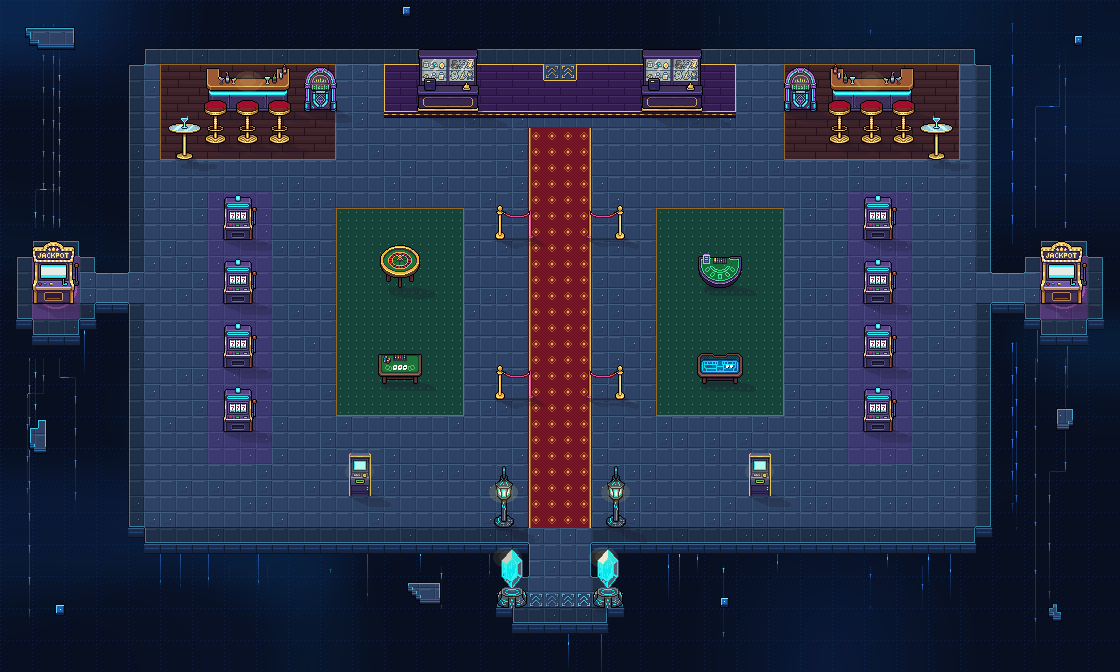
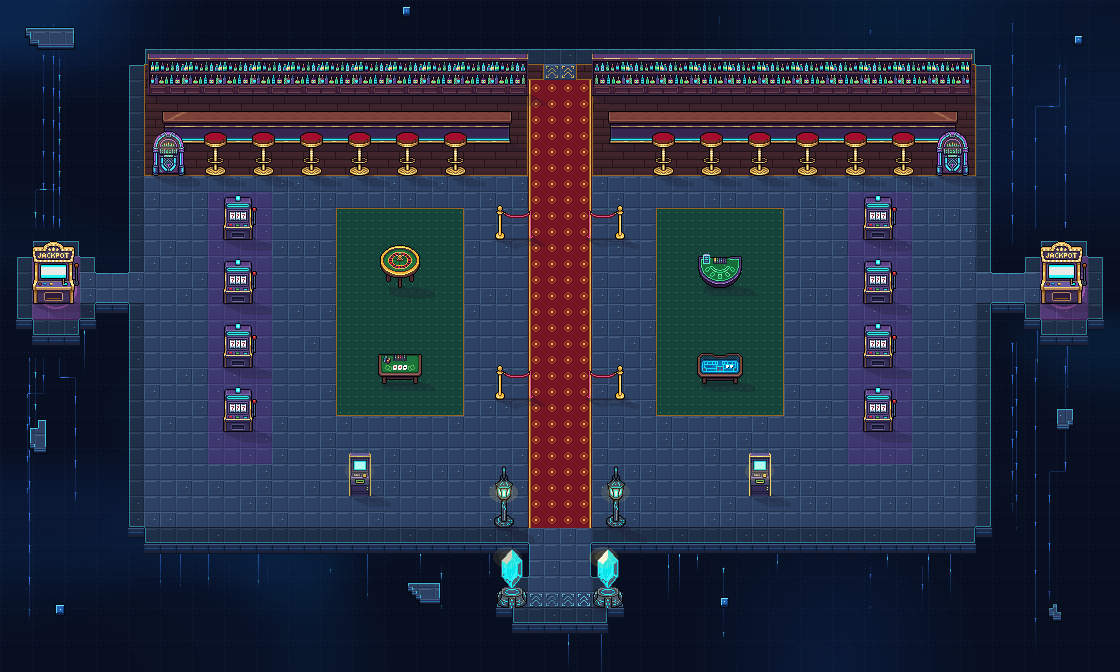
Karte 22: ganze hintere Wand als Bar (PixelLab-Stuecke k22_theke: Regal + Tresen gekachelt), 12 Hocker, Jukeboxen
Claude-Session: https://claude.ai/code/session_01SaoYHKhnro4LFcPJqjaPsq

Changed region(s): [[0.125, 0.0625, 0.875, 0.2812]]

diff --git a/tools/karte22_objekte.py b/tools/karte22_objekte.py
@@ -22,6 +22,29 @@ KORDEL, ATM, JACKPOT, THEKE, KRISTALL, LAMPE = 'casino/04', 'casino/12', 'gross/
 BAR, HOCKER, COCKTAIL, JUKEBOX = 'bar/00', 'bar48/00', 'bar48/01', 'bar48/10'
 
 
+def bar_bauen():
+    """Nutzer: die ganze hintere Wand ist eine Bar. Tresen und Flaschenregal aus den PixelLab-Stuecken (k22_theke)
+    zusammengesetzt: Endstueck links + Mittelstreifen (eine Kachel breit, nahtlos) wiederholt + Endstueck rechts.
+    Je eine Haelfte links und rechts der VIP-Tuer (Teppich bleibt frei). Rueckgabe: (Tresen-Breite, Regal-Breite)."""
+    d = os.path.join(OBJ, 'theke_gebaut')
+    os.makedirs(d, exist_ok=True)
+    t = np.array(Image.open(os.path.join(OBJ, 'theke', '00.png')).convert('RGBA'))
+    links, streifen, rechts = t[:, :26], t[:, 26:42], t[:, 42:]
+    n = (BAR_BREITE - links.shape[1] - rechts.shape[1]) // 16
+    tresen = np.concatenate([links] + [streifen] * n + [rechts], axis=1)
+    Image.fromarray(tresen).save(os.path.join(d, 'tresen.png'))
+    r = np.array(Image.open(os.path.join(OBJ, 'theke', '03.png')).convert('RGBA'))
+    rl, rm, rr = r[:, :3], r[:, 3:37], r[:, 37:]
+    n = (REGAL_BREITE - 6) // rm.shape[1]
+    regal = np.concatenate([rl] + [rm] * n + [rr], axis=1)
+    Image.fromarray(regal).save(os.path.join(d, 'regal.png'))
+    return tresen.shape[1], regal.shape[1]
+
+
+BAR_BREITE, REGAL_BREITE = 352, 384                                   # je Haelfte (px)
+TRESEN_W, REGAL_W = bar_bauen()
+
+
 def paar(name, dx, reihe, anim=None, spiegeln_rechts=False):
     """Links/rechts gespiegelt zur Achse: Mitte bei MITTE -/+ dx."""
     return [(name, MITTE - dx, reihe, anim, False), (name, MITTE + dx, reihe, anim, spiegeln_rechts)]
@@ -29,8 +52,9 @@ def paar(name, dx, reihe, anim=None, spiegeln_rechts=False):
 
 # (Quelle, Mitte x in px, Fussreihe, Animation, gespiegelt)
 OBJEKTE = (
-    # Buehne: zwei Preistheken links/rechts der VIP-Tuer (Ausgang bleibt frei)
-    paar(THEKE, 112, 6)
+    # Nutzer: hintere Wand = Bar. Regal an der Wand, eine Reihe Platz fuer den Barkeeper, davor der Tresen, Hocker
+    paar('theke_gebaut/regal', MITTE - 528 + REGAL_W // 2, 5, None, True)
+    + paar('theke_gebaut/tresen', MITTE - 512 + TRESEN_W // 2, 8, None, True)
     # Automatenreihen (je 4 Automaten untereinander)
     + sum((paar(AUTOMAT, 320, r, 'automat') for r in (14, 18, 22, 26)), [])    # Nutzer: Anzahl bleibt, mehr Platz ringsum
     # Spieltische: links Roulette/Karten, rechts Blackjack/Craps (gleiche Plaetze gespiegelt)
@@ -45,9 +69,8 @@ OBJEKTE = (
     # Ankunft: zwei Datenkristalle neben den Pfeilen
     + paar(KRISTALL, 48, 37, 'lampe')
     # Nutzer: Bar oben links/rechts - Tresen, drei Hocker davor, Cocktailtisch und Jukebox (PixelLab k22_bar/k22_bar48)
-    + paar(BAR, 312, 6, 'lampe', True)
-    + sum((paar(HOCKER, dx_, 8) for dx_ in (344, 312, 280)), [])
-    + paar(COCKTAIL, 376, 9, None, True) + paar(JUKEBOX, 240, 6, 'lampe', True)
+    + sum((paar(HOCKER, MITTE - x_, 10) for x_ in (216, 264, 312, 360, 408, 456)), [])
+    + paar(JUKEBOX, MITTE - 168, 10, 'lampe', True)   # Cocktailtische entfallen (stiessen an Kordeln/Hocker)
 )
 
 

diff --git a/tools/karte22_layout.py b/tools/karte22_layout.py
@@ -59,14 +59,13 @@ def main():
     for (x0, y0, x1, y1) in INSEL_STEGE:                          # Durchgaenge in den Ringen
         k[y0:y1 + 1, x0 - 1] = 'p'; k[y0:y1 + 1, x1 + 1] = 'p'
     # Innenaufteilung (symmetrisch zur Achse 25.5 -> Spalte x <-> 51 - x)
-    rechteck(k, (33, 8, 36, 32), 't')                             # Teppich Mittelgang
-    rechteck(k, (24, 4, 45, 6), 'b')                              # Buehne / Preistheke oben
+    rechteck(k, (9, 4, 60, 10), 'w')                              # Nutzer: ganze hintere Wand als Bar
+    rechteck(k, (33, 5, 36, 32), 't')                             # Teppich bis zur VIP-Tuer                             # Teppich Mittelgang
     for x0 in (13, 53):                                           # Automatenreihen links/rechts (je 4 breit, Abstand zum Rand)
         rechteck(k, (x0, 12, x0 + 3, 28), 's')
     for x0 in (21, 41):                                           # Spieltische (je 8 breit, mehr Luft)
         rechteck(k, (x0, 13, x0 + 7, 25), 'k')
-    for x0 in (10, 49):                                           # Nutzer: Bar oben links/rechts (gespiegelt)
-        rechteck(k, (x0, 4, x0 + 10, 9), 'w')
+
     for (x0, y0, x1, y1) in INSELN:
         rechteck(k, (x0 + 1, y0 + 1, x1 - 1, y1 - 1), 'j')
     k[ANKUNFT[1] + 1, 33:37] = 'z'                                # Ankunftspfeile
@@ -86,8 +85,7 @@ def main():
         for x in range(C):
             dr.rectangle((x * S, y * S, x * S + S - 1, y * S + S - 1), fill=F[k[y, x]], outline=(0, 0, 0))
     for txt, (x, y) in (('Automaten', (13, 20)), ('Automaten', (53, 20)), ('Roulette', (22, 19)),
-                        ('Karten', (42, 19)), ('Preistheke / Buehne', (27, 5)), ('Teppich', (33, 20)),
-                        ('Bar', (13, 6)), ('Bar', (52, 6)),
+                        ('Karten', (42, 19)), ('Bar', (20, 6)), ('Bar', (46, 6)), ('Teppich', (33, 20)),
                         ('Ankunft', (32, 37)), ('Jackpot', (1, 17)), ('Jackpot', (64, 17))):
         dr.text((x * S + 2, y * S + 2), txt, fill=(255, 255, 255))
     im.save(os.path.join(KARTE, 'layout_vorschau.png'))

diff --git a/tools/pixellab_objekte.py b/tools/pixellab_objekte.py
@@ -3119,6 +3119,19 @@ OBJEKTGRUPPEN_K22 = {   # Karte 22 (Digicasino): Netz-Stil wie Karte 16, aber mi
         'small round cocktail table with a gold pole, a glowing cocktail glass on top, ' + FR14,
         'glowing neon cocktail glass sign on a short metal stand, pink and cyan neon, ' + FR14,
     ]},
+    'k22_theke': {'size': 48, 'items': [   # Nutzer: ganze hintere Wand als Bar - kachelbare Stuecke (nahtlos links/rechts)
+        'straight middle section of a long casino bar counter seen from the front, dark violet front panel with thin gold '
+        'trim and a glowing neon cyan light strip along the bottom, polished dark wood counter top, no glasses, completely '
+        'flat and seamless left and right edges so many pieces can be placed side by side in a row, ' + FR14,
+        'left end piece of the same long casino bar counter, rounded closed end on the left, dark violet front panel with '
+        'gold trim and neon cyan light strip, polished dark wood top, flat seamless right edge to connect to the middle '
+        'sections, ' + FR14,
+        'right end piece of the same long casino bar counter, rounded closed end on the right, dark violet front panel with '
+        'gold trim and neon cyan light strip, polished dark wood top, flat seamless left edge to connect to the middle '
+        'sections, ' + FR14,
+        'section of a back bar wall shelf seen from the front, two shelves full of glowing colorful bottles, dark violet '
+        'wooden frame with gold trim, flat seamless left and right edges so many pieces can be placed side by side, ' + FR14,
+    ]},
     'k22_gross': {'size': 64, 'items': [
         'huge golden jackpot slot machine, tall cabinet with a big glowing screen, flashing yellow lights around the '
         'top sign, red lever, violet and gold body, ' + FR14,
